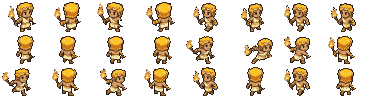
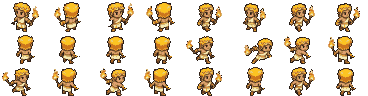
Stop Cedalion walking one way while looking the other
His front idle and walk frames looked toward screen-left, but the game plays
them when he faces south-east, so he walked right while facing left and
snapped round whenever he swung (the attack frames face right). The sheet
tool had mirrored those frames to put the torch on the left; the artist drew
them facing right, sword in his right hand on our left. They are no longer
mirrored. The torch flame is now looked for on the side opposite the sword
hand, since his golden hair is flame-coloured too. Autoshot's walk4 timeline
walks him in all four screen directions with a sword.

diff --git a/tools/process_sheet.py b/tools/process_sheet.py
@@ -44,16 +44,19 @@ COLS = 8
 
 # ---------------------------------------------------------------- Cedalion's hand-made sheet
 
-# (box in the sheet, mirror?, kind) - boxes found by scanning the sheet; mirror normalises facing
+# (box in the sheet, mirror?, kind) - boxes found by scanning the sheet; mirror normalises facing:
+# front views must look toward screen-right (SE) and back views away up-right (NE). The sheet's
+# front idle and walk poses already look right (the sword in his right hand on our left, the
+# torch on our right); mirroring them made him walk one way while looking the other.
 BOXES = {
-    "idle_f": ((60, 50, 280, 222), True, "stand"),
-    "idle_f2": ((380, 50, 590, 222), True, "stand"),
+    "idle_f": ((60, 50, 280, 222), False, "stand"),
+    "idle_f2": ((380, 50, 590, 222), False, "stand"),
     "idle_b": ((640, 50, 880, 222), False, "stand"),
     "idle_b2": ((950, 50, 1190, 222), False, "stand"),
-    "walk_f0": ((15, 275, 182, 429), True, "stand"),
-    "walk_f1": ((191, 274, 320, 430), True, "stand"),
-    "walk_f2": ((327, 274, 458, 430), True, "stand"),
-    "walk_f3": ((462, 274, 596, 430), True, "stand"),
+    "walk_f0": ((15, 275, 182, 429), False, "stand"),
+    "walk_f1": ((191, 274, 320, 430), False, "stand"),
+    "walk_f2": ((327, 274, 458, 430), False, "stand"),
+    "walk_f3": ((462, 274, 596, 430), False, "stand"),
     "walk_b0": ((638, 276, 780, 429), True, "stand"),
     "walk_b1": ((775, 276, 912, 429), True, "stand"),
     "walk_b2": ((912, 276, 1051, 430), True, "stand"),
@@ -366,17 +369,20 @@ def anchor_of(f: Image.Image, lying: bool):
     return (sum(xs) / len(xs), yb)
 
 
-def flame_of(f: Image.Image):
-    """Where the torch flame is. After mirroring the torch is always on the figure's left, and the
-    golden hair sits in the middle, so only orange pixels in the left third count."""
+def flame_of(f: Image.Image, side=0):
+    """Where the torch flame is. The golden hair sits in the middle and is flame-coloured too, so
+    only orange pixels in the outer thirds count: on `side` (-1 left, 1 right) if given (the torch
+    is in the hand that doesn't hold the sword), else on whichever side has more of them."""
     bb = f.getbbox()
-    limit = bb[0] + (bb[2] - bb[0]) * 0.36
-    pts = []
+    left = bb[0] + (bb[2] - bb[0]) * 0.36
+    right = bb[2] - (bb[2] - bb[0]) * 0.36
+    sides = ([], [])
     for y in range(f.height):
         for x in range(f.width):
             c = f.getpixel((x, y))
-            if c[3] and x < limit and is_flame(c):
-                pts.append((x, y))
+            if c[3] and is_flame(c) and (x < left or x > right):
+                sides[0 if x < left else 1].append((x, y))
+    pts = sides[0] if side < 0 else (sides[1] if side > 0 else max(sides, key=len))
     if len(pts) < 3:
         return None
     return (sum(p[0] for p in pts) / len(pts), sum(p[1] for p in pts) / len(pts))
@@ -451,7 +457,10 @@ def process(name, cfg, preview=None):
         ox, oy = round(cx + pivot[0] - ax), round(cy + pivot[1] - ay)
         out.alpha_composite(f, (ox, oy))
         entry = {"filename": f"{name} {i}", "frame": {"x": cx, "y": cy, "w": cw, "h": ch}, "duration": ms}
-        fl = flame_of(f) if cfg.get("torch") else None
+        side = 0
+        if k in hands:
+            side = 1 if hands[k][0] < f.width / 2 else -1
+        fl = flame_of(f, side) if cfg.get("torch") else None
         if fl:
             entry["torch"] = {"x": round(fl[0] - ax), "y": round(fl[1] - ay)}
         if k in hands:

diff --git a/docs/dev/POLISH.md b/docs/dev/POLISH.md
@@ -57,6 +57,11 @@ Getting the hackathon demo into shape by 17:00 IST. Log, newest last:
 - Waiting on Adithya: the princess (Alcyone) and chest reference images saved to
   `art/generated/`, and where Alcyone should appear (suggested: chained by the shrine's altar).
   Next after the reset (15:50): the chest art, Alcyone, a broken-wall variant, more medallions.
+- Bug (Adithya: "the walk animation is inverted"): Cedalion's front idle and walk frames looked
+  screen-left while he walked right, and snapped round when he swung (the attack frames face
+  right). The sheet tool mirrored them to put the torch on the left; the artist had drawn them
+  facing right. They are no longer mirrored, and the torch is found on the side opposite the
+  sword hand (his golden hair fooled the flame finder).
 
 ; stopped at about 55% of the 5-hour window)
 
